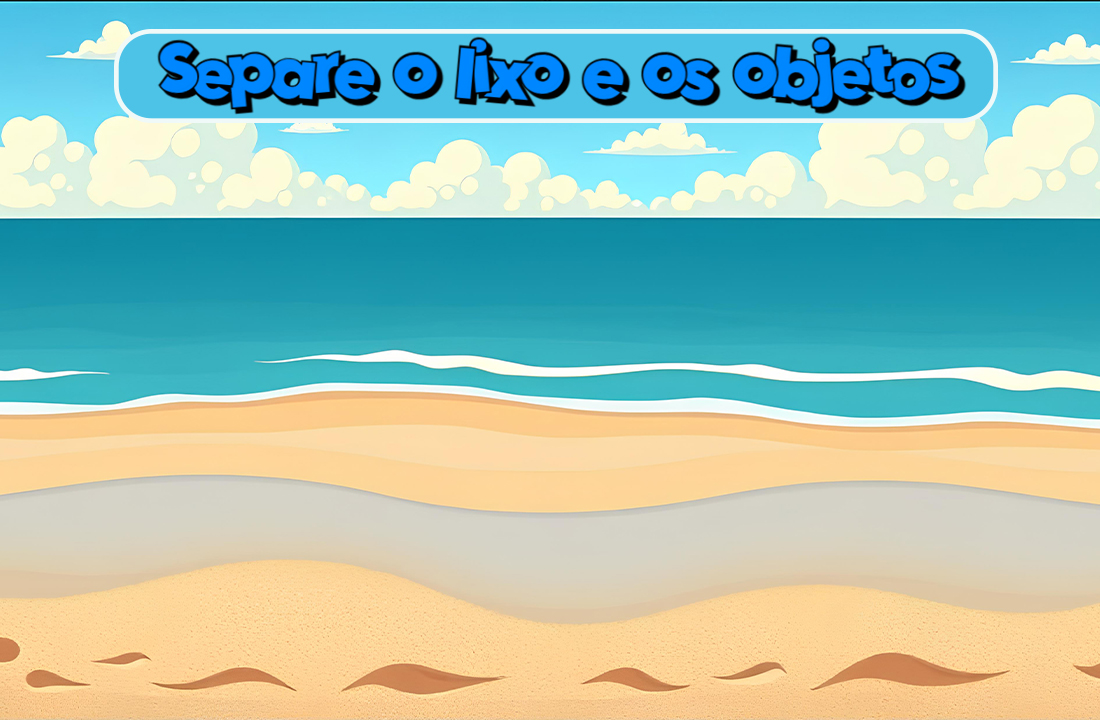
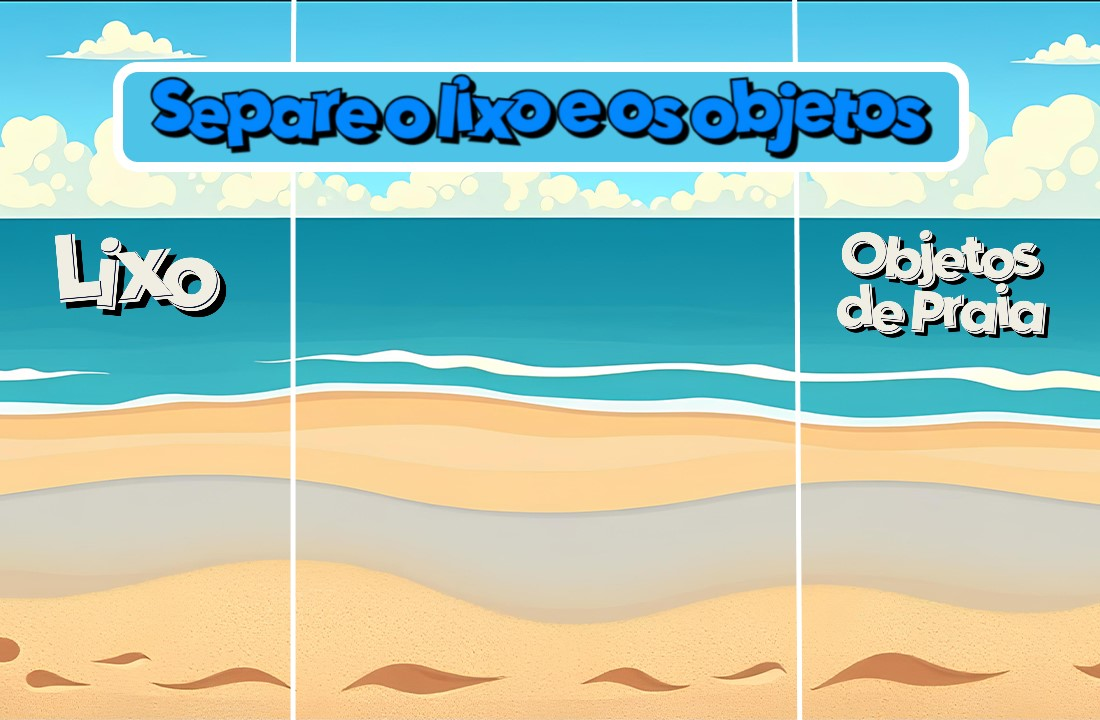
atualização de imagens e melhorias
- adicionado imagens para as áreas
- melhoria da lógica de colisão objeto-área

Changed region(s): [[0.0927, 0.0, 0.9582, 1.0], [0.0309, 0.3056, 0.2164, 0.4583]]

diff --git a/main.py b/main.py
@@ -1908,31 +1908,41 @@ def fase3():
     posicao_area_PRAIA = (largura_tela - novo_tamanho_area_PRAIA[0] - 40, altura_tela - novo_tamanho_area_PRAIA[1] - 20)
     posicao_area_LIXO = (40, altura_tela - novo_tamanho_area_LIXO[1] - 20)
 
-    # Criar os objetos de área (Rect) para facilitar a colisão
-    rect_area_PRAIA = pygame.Rect(posicao_area_PRAIA, novo_tamanho_area_PRAIA)
-    rect_area_LIXO = pygame.Rect(posicao_area_LIXO, novo_tamanho_area_LIXO)
-
     # Função para verificar se o objeto está dentro da área da praia
     def colisao_com_area_PRAIA(objeto):
-        # Criar o retângulo do objeto (assumindo que o objeto tem a posição 'x' e 'y' e a imagem do botão)
-        rect_objeto = pygame.Rect(objeto["x"], objeto["y"], objeto["botao"].imagem.get_width(), objeto["botao"].imagem.get_height())
+        # Cria uma máscara para a área da praia
+        mask_area_praia = pygame.mask.from_surface(imagem_area_PRAIA)
         
-        # Verificar se o objeto está completamente dentro da área da praia
-        if rect_area_PRAIA.colliderect(rect_objeto):
+        # Cria uma máscara para o objeto
+        rect_objeto = pygame.Rect(objeto["x"], objeto["y"], objeto["botao"].imagem.get_width(), objeto["botao"].imagem.get_height())
+        mask_objeto = pygame.mask.from_surface(objeto["botao"].imagem)
+        
+        # Obter o deslocamento entre o objeto e a área da praia
+        deslocamento = (rect_objeto.x - posicao_area_PRAIA[0], rect_objeto.y - posicao_area_PRAIA[1])
+        
+        # Verifica se as máscaras se sobrepõem
+        if mask_area_praia.overlap(mask_objeto, deslocamento):
             return True
         return False
 
-    # Função para verificar se o objeto está dentro da área do lixo
+
     def colisao_com_area_LIXO(objeto):
-        # Criar o retângulo do objeto (assumindo que o objeto tem a posição 'x' e 'y' e a imagem do botão)
-        rect_objeto = pygame.Rect(objeto["x"], objeto["y"], objeto["botao"].imagem.get_width(), objeto["botao"].imagem.get_height())
+        # Cria uma máscara para a área do lixo
+        mask_area_lixo = pygame.mask.from_surface(imagem_area_LIXO)
         
-        # Verificar se o objeto está completamente dentro da área do lixo
-        if rect_area_LIXO.colliderect(rect_objeto):
+        # Cria uma máscara para o objeto
+        rect_objeto = pygame.Rect(objeto["x"], objeto["y"], objeto["botao"].imagem.get_width(), objeto["botao"].imagem.get_height())
+        mask_objeto = pygame.mask.from_surface(objeto["botao"].imagem)
+        
+        # Obter o deslocamento entre o objeto e a área do lixo
+        deslocamento = (rect_objeto.x - posicao_area_LIXO[0], rect_objeto.y - posicao_area_LIXO[1])
+        
+        # Verifica se as máscaras se sobrepõem
+        if mask_area_lixo.overlap(mask_objeto, deslocamento):
             return True
         return False
 
-
+ 
     def posicionar_objetos(lista_imagens, tipo="correto"):
         imagens_selecionadas = lista_imagens  # Lista de imagens a posicionar
 
@@ -2104,7 +2114,7 @@ def fase3():
 
             texto_contorno_tempo = fonte.render(texto_tempo, True, (0, 0, 0))  # Contorno preto
             texto_preenchimento_tempo = fonte.render(texto_tempo, True, cor_texto)  # Texto branco
-            posicao_tempo = (780, 130)  # Posição abaixo do contador de objetos
+            posicao_tempo = (710, 20)  # Posição abaixo do contador de objetos
 
             # Desenhar o texto com contorno
             tela.blit(texto_contorno_tempo, (posicao_tempo[0] - 1, posicao_tempo[1]))
@@ -2119,7 +2129,7 @@ def fase3():
             texto_contorno = fonte.render(f"TOTAL DE OBJETOS: {imagensCorretasClicadas}/10", True, (0, 0, 0))  # Preto para o contorno
             texto_preenchimento = fonte.render(f"TOTAL DE OBJETOS: {imagensCorretasClicadas}/10", True, cor_texto)  # Cor original
 
-            posicao_texto = (120, 130)  # Posição no canto superior esquerdo
+            posicao_texto = (180, 20)  
 
             # Desenhar o texto com deslocamento para criar o contorno
             tela.blit(texto_contorno, (posicao_texto[0] - 1, posicao_texto[1]))  # Esquerda
